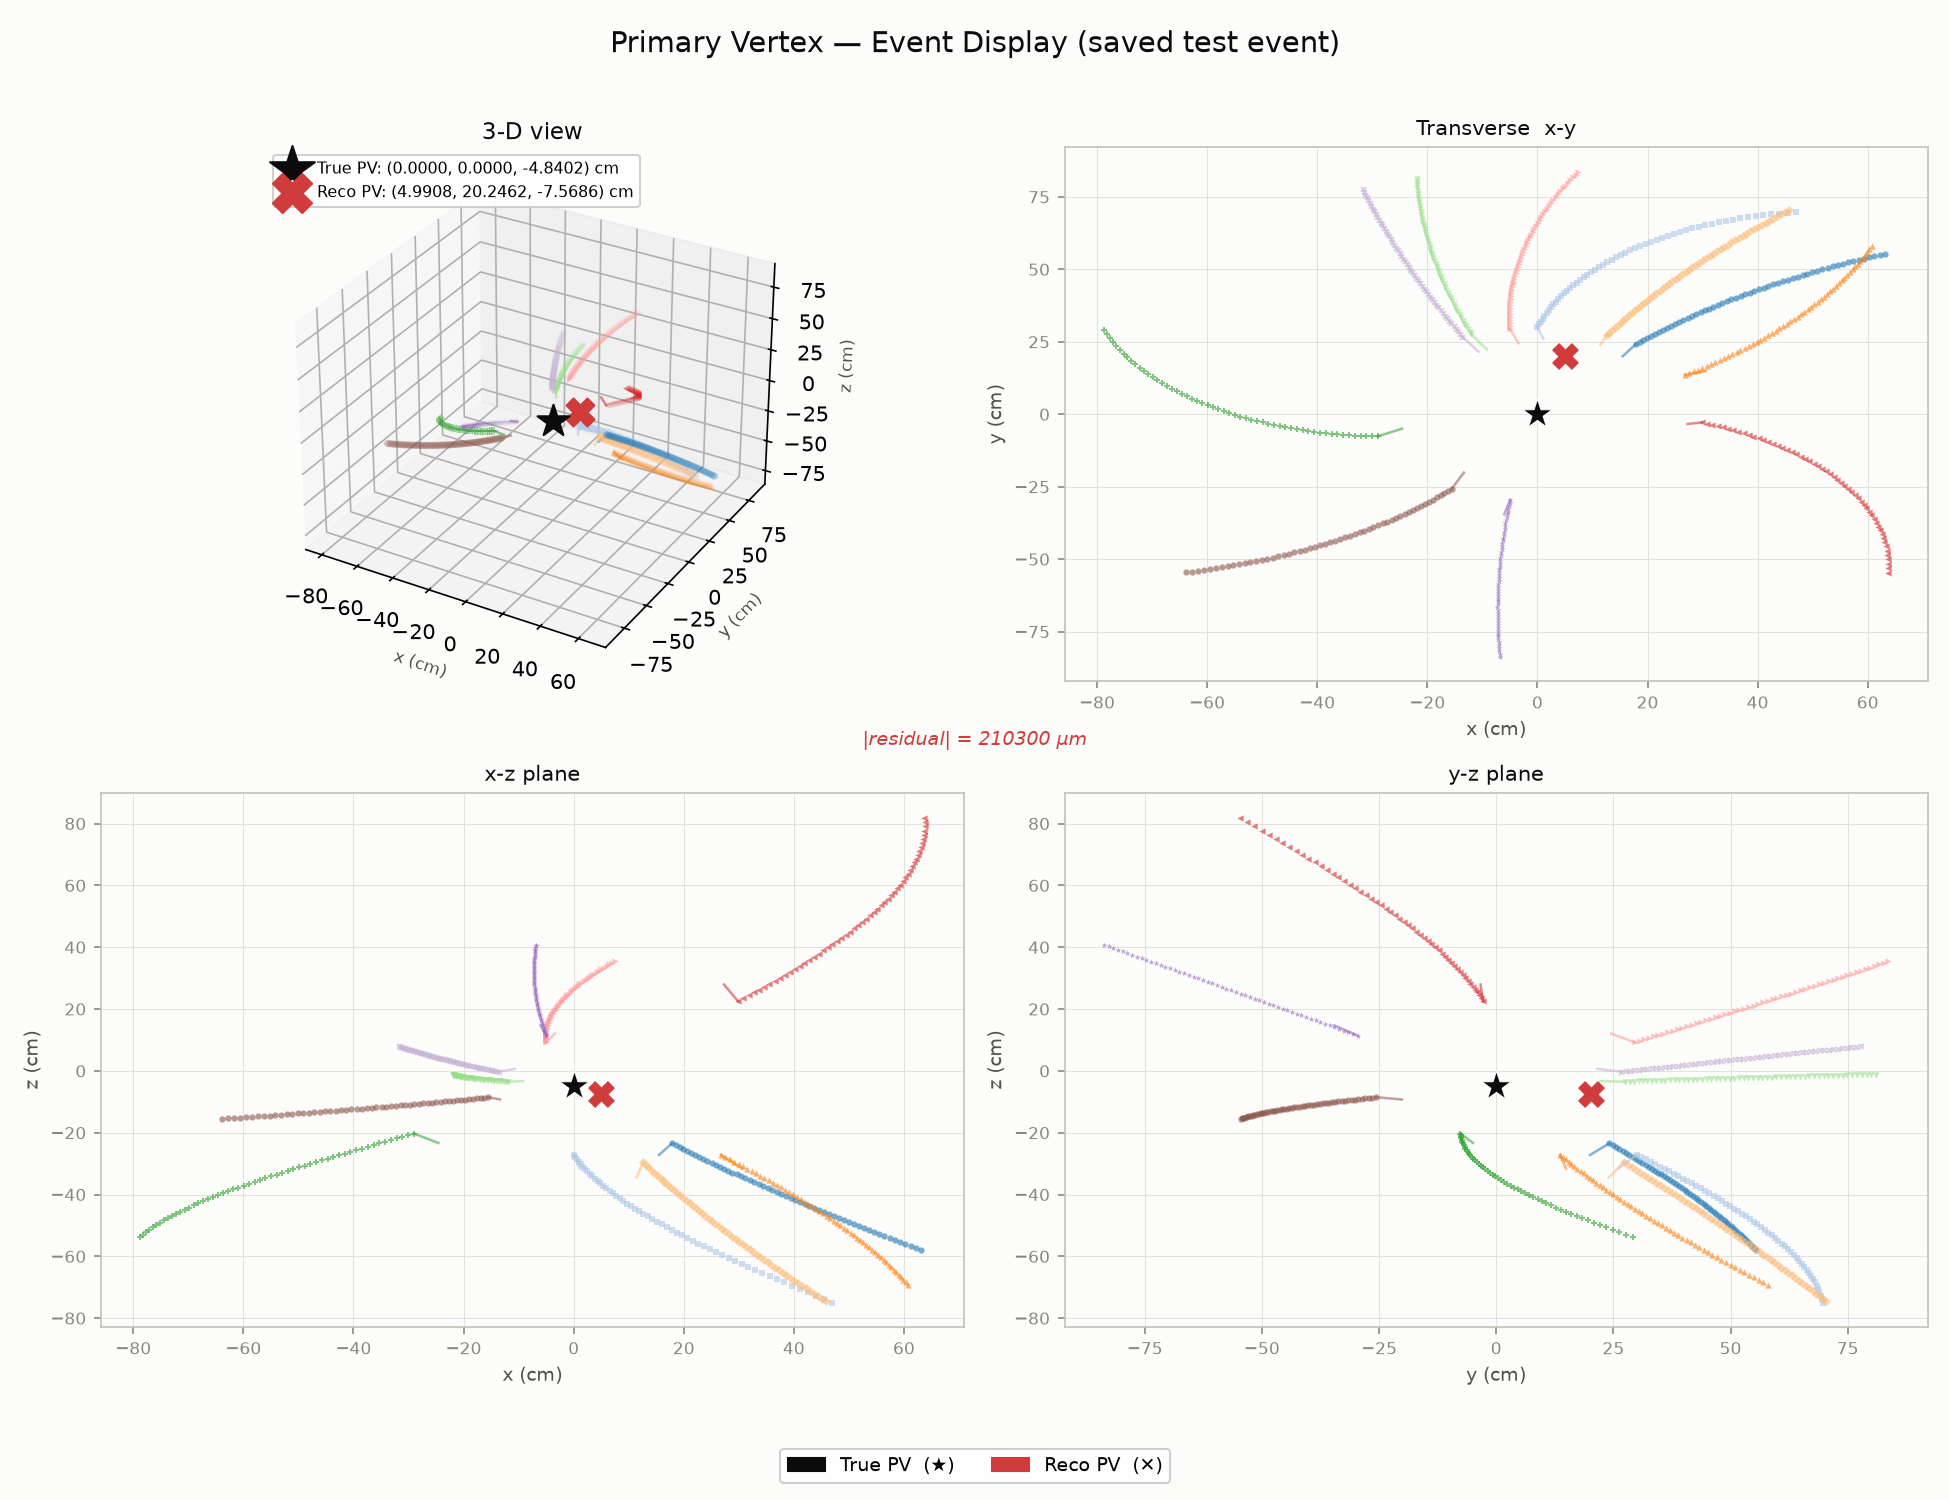
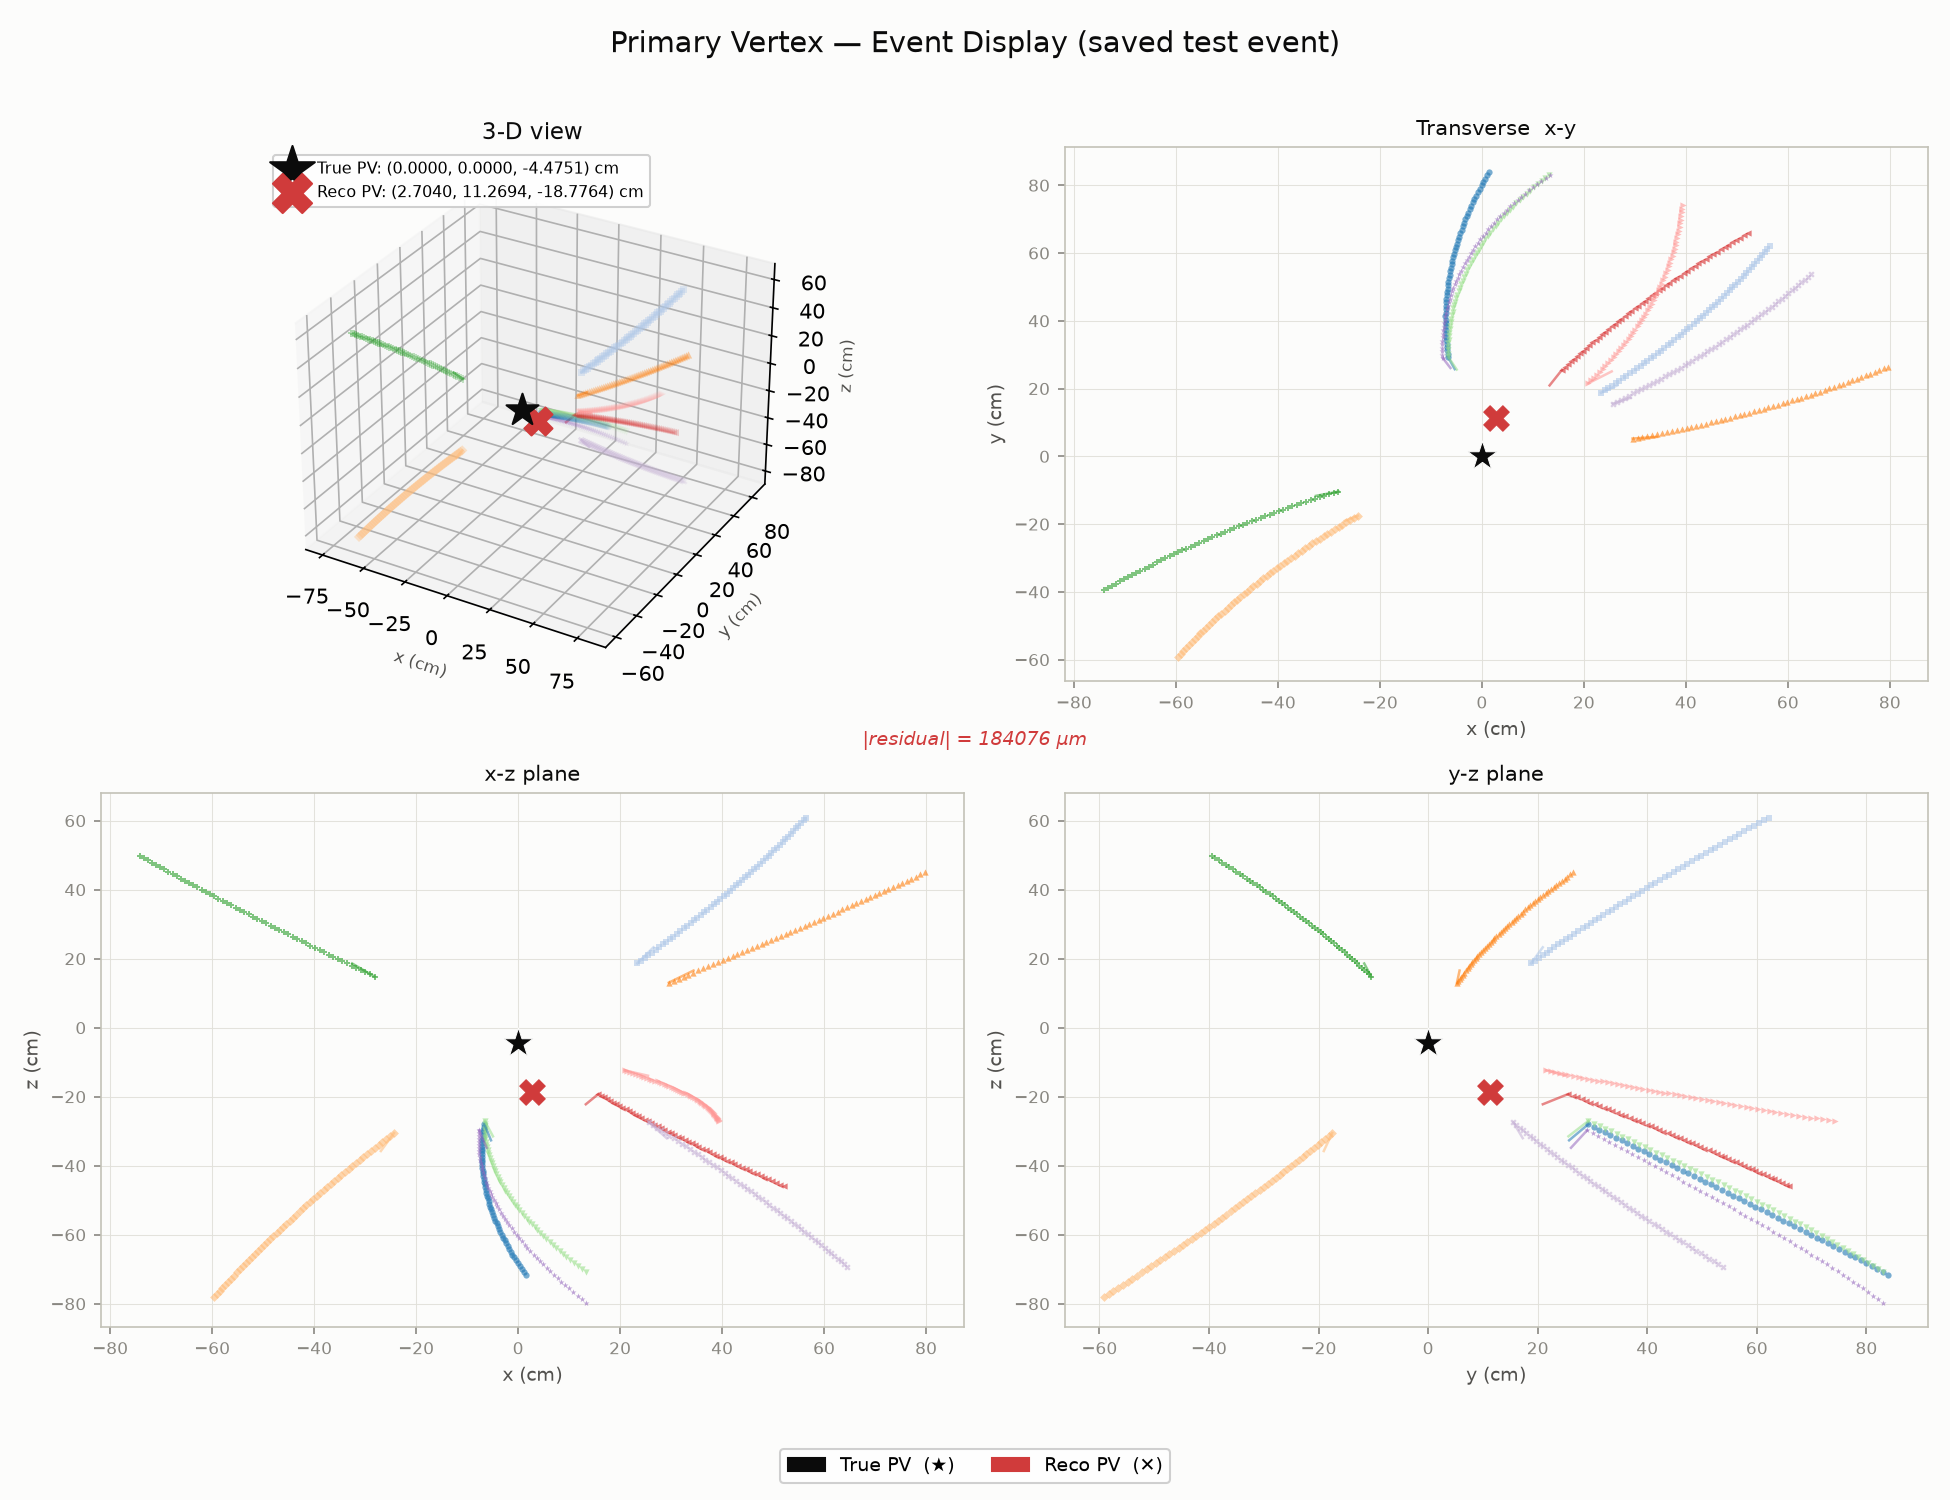
More code simplification

diff --git a/train/downstream/vertex_head.py b/train/downstream/vertex_head.py
@@ -200,7 +200,9 @@ def fit_vertex_by_closest_approach(
 
 
 def fit_vertex_by_helix_closest_approach(
-    fitpars,
+    track_reg_result,
+    track_position,
+    b_z,
     track_weight,
     n_iterations=100,
     is_cosmics=False,
@@ -247,9 +249,9 @@ def fit_vertex_by_helix_closest_approach(
         Same dict as fit_vertex_by_closest_approach, from the final
         iteration
     """
-    n_events, n_tracks, _ = fitpars.shape
-    device = fitpars.device
-    dtype = fitpars.dtype
+    n_events, n_tracks, _ = track_reg_result.shape
+    device = track_reg_result.device
+    dtype = track_reg_result.dtype
 
     if seed_vertex is None:
         PV = torch.zeros(n_events, 3, device=device, dtype=dtype)
@@ -262,7 +264,7 @@ def fit_vertex_by_helix_closest_approach(
 
     for iteration in range(n_iterations):
         PV_per_track = PV.unsqueeze(1).expand(-1, n_tracks, -1)  # (n_events, n_tracks, 3)
-        track_position, track_direction = get_helix_tangent(fitpars, PV_per_track, is_cosmics=is_cosmics)
+        track_position, track_direction = get_helix_tangent(track_reg_result, track_position, b_z, PV_per_track, is_cosmics=is_cosmics)
 
         result = fit_vertex_by_closest_approach(track_position, track_direction, track_weight, **linear_fit_kwargs)
 
@@ -411,7 +413,7 @@ class VertexHead(nn.Module):
         learn_weights: bool = False,
         weight_hidden_dim: int = 32,
         use_helix: bool = True,
-        helix_iterations: int = 5,
+        helix_iterations: int = 100,
         b_z: float = 3.8,
     ):
         super().__init__()
@@ -527,15 +529,13 @@ class VertexHead(nn.Module):
             # and how confident the track finder is that it's real
             track_weight = probability_track_is_real * total_hit_weight
 
-        fitpars = track_reg_to_fitpars(track_reg_result, track_position, self.b_z)
 
         if self.use_helix:
             fit = fit_vertex_by_helix_closest_approach(
-                fitpars,  #Add fitpar translation
-                track_weight,
-                track_reg_result, 
-                track_position, 
+                track_reg_result,
+                track_position,
                 self.b_z,
+                track_weight,
                 n_iterations=self.helix_iterations,
                 seed_vertex = fit_vertex_by_closest_approach(track_position, track_direction, track_weight)["vertex_estimate"]
             )
